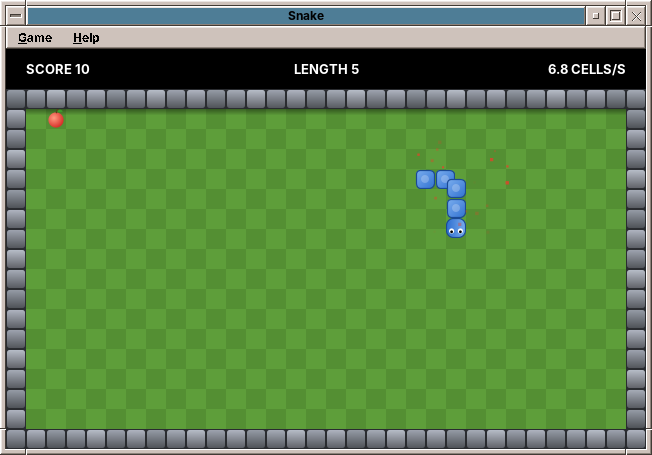
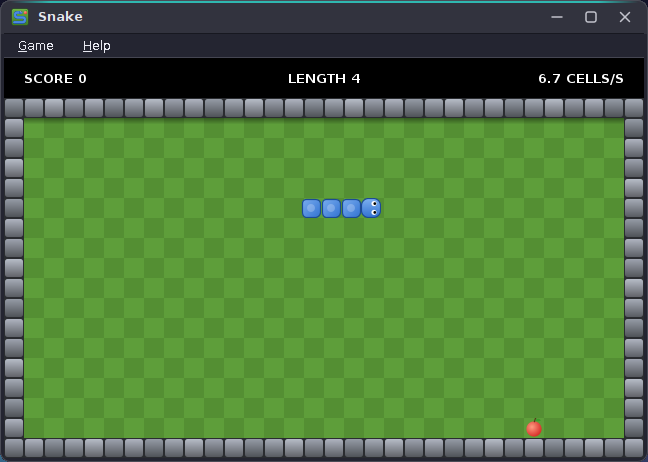
docs(readme): show the Horizon look in the screenshots
The screenshots in docs/screenshots (used by the README and the AppStream
metainfo) showed the classic CDE look. They are replaced by shots in the
Horizon look, Dark scheme; a README without a picture gets one.

Claude-Session: https://claude.ai/code/session_017Pd6NcKy4y87wY8jkALjpZ

Changed region(s): [[0.0, 0.0, 1.0, 1.0], [0.6173, 0.3692, 0.7407, 0.5231], [0.463, 0.4308, 0.5864, 0.4923]]

diff --git a/README.md b/README.md
@@ -5,6 +5,8 @@
 ![License](https://img.shields.io/badge/license-EUPL--1.2-blue)
 ![Java](https://img.shields.io/badge/Java-25-orange)
 
+![Snake](docs/screenshots/amade-snake-game.png)
+
 ## Playing
 
 - **Enter**, **Space** or a **click** (or F2) starts a game. The snake waits a moment; an arrow key starts it at once.
